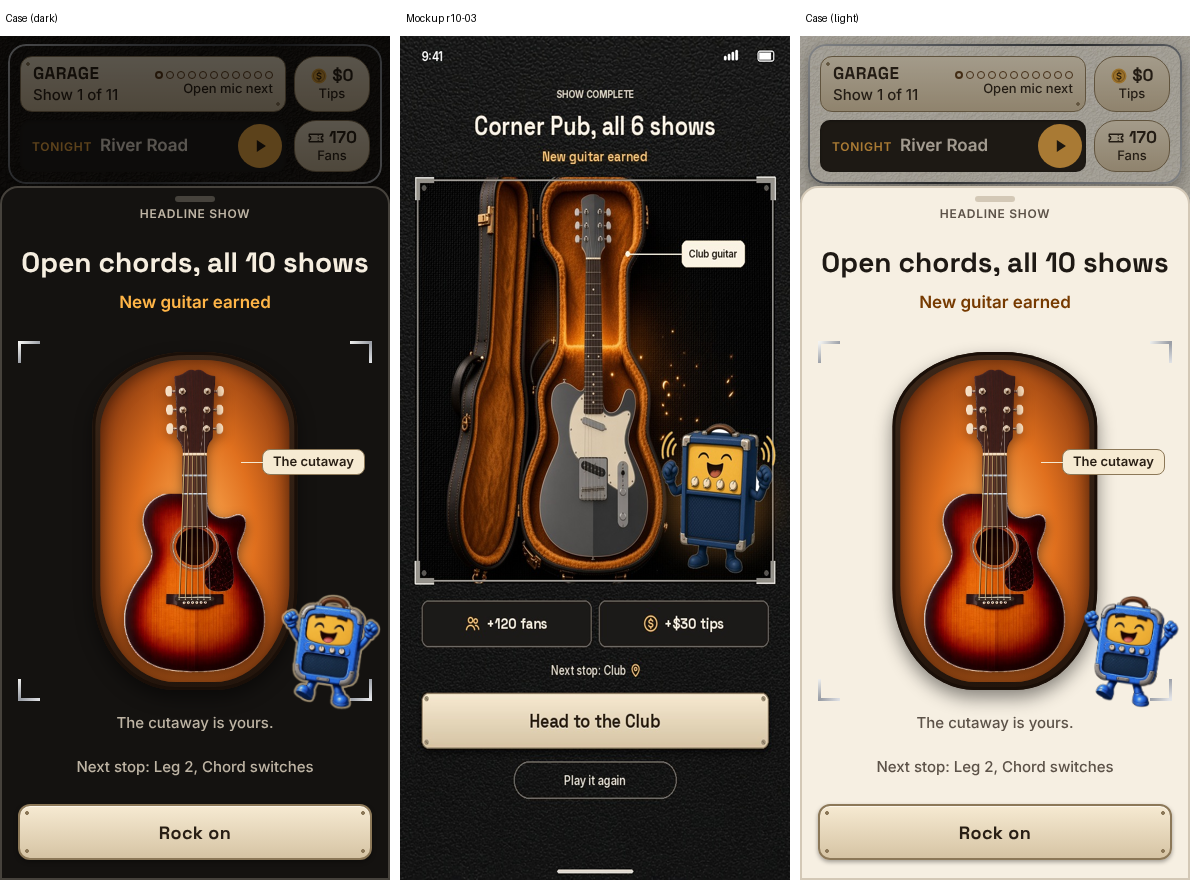
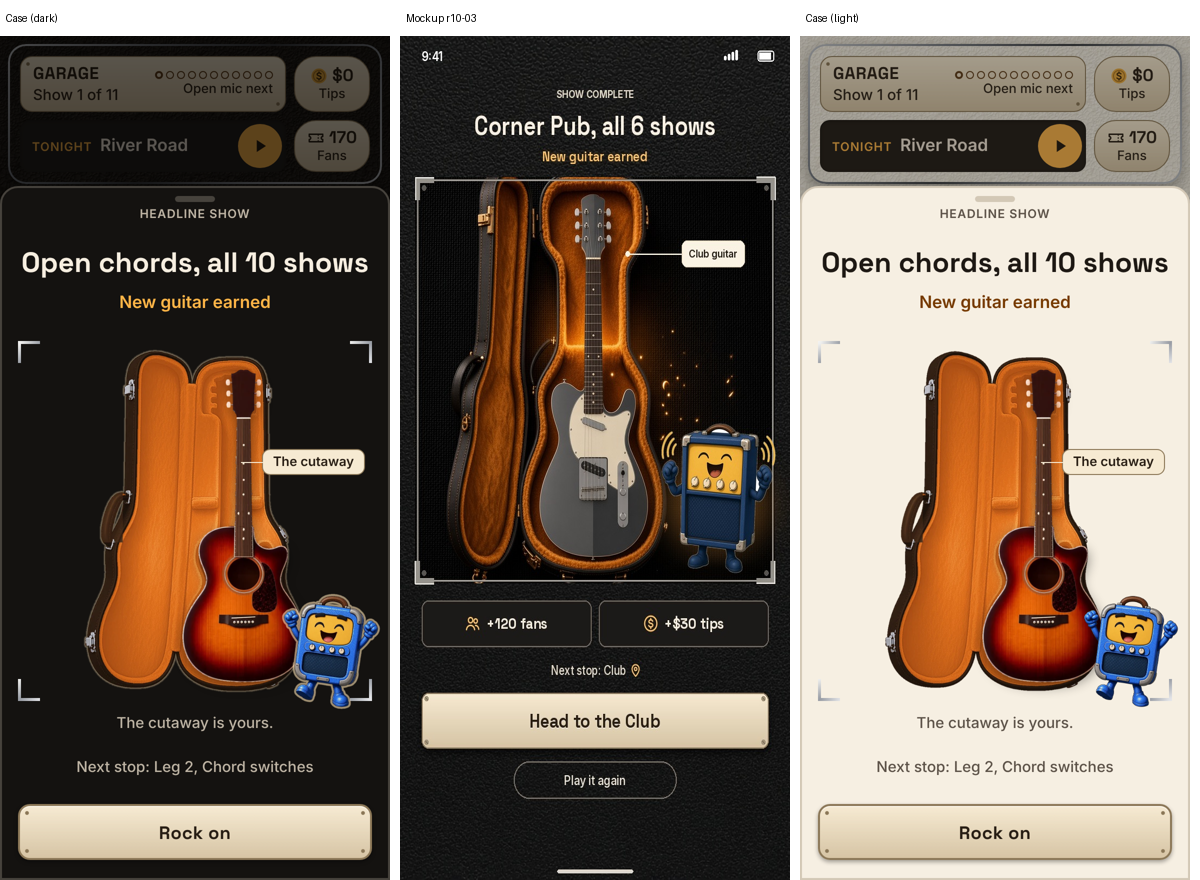
Road Ready 06: the new guitar sits in Grok's painted case
The case on the new-guitar sheet is now Grok's painting, dark and light
(art/show, cached by the service worker), in place of the CSS shell.
The guitar in it is the whole-guitar picture, so the headstock sits in
its pocket and the neck along its channel.

Claude-Session: https://claude.ai/code/session_01JnUP82d5QUKXobAa3cM5e5

Changed region(s): [[0.0617, 0.3989, 0.3083, 0.7977], [0.74, 0.3989, 0.9867, 0.8284]]

diff --git a/sw.js b/sw.js
@@ -8,7 +8,7 @@
 const CACHE = "tabs-v4.96.1";
 const ART = "tabs-art";          // album art for covers, kept across releases
 const VENDOR = "tabs-vendor";    // libraries loaded on first use (vendor/), kept across releases
-const SHELL = ["./", "index.html", "styles.css", "app.js", "library.js", "audio.js", "aihelp.js", "core.js", "core/chords.js", "core/game.js", "core/groove.js", "core/neck.js", "core/booth.js", "core/youtube.js", "core/playing.js", "core/recording.js", "core/sketch.js", "core/turf.js", "ui.js", "store.js", "sets.js", "settings.js", "editor.js", "coach.js", "tuner.js", "findai.js", "german.js", "aitools.js", "crop.js", "sketch.js", "heads.js", "dial.js", "fold.js", "strum.js", "share.js", "listen.js", "profile.js", "playmap.js", "road.js", "fretboard.js", "hud.js", "gig.js", "stage.js", "tour.js", "charts.js", "band.js", "friends.js", "duel.js", "merch.js", "support.js", "opening.js", "practice.js", "booth.js", "youtube.js", "drawer.js", "louie.js", "guitarist.js", "maker.js", "rock.js", "scene.js", "callout.js", "tuneup.js", "art/guitarist.js", "art/guitars/pics.js", "art/guitars/parlor-head.webp", "art/guitars/parlor-body.webp", "art/guitars/parlor-small.webp", "art/guitars/cutaway-head.webp", "art/guitars/cutaway-body.webp", "art/guitars/cutaway-small.webp", "art/guitars/cutaway-sunburst-body.webp", "art/guitars/cutaway-sunburst-head.webp", "art/guitars/cutaway-sunburst-small.webp", "art/surfaces/tolex-dark.webp", "art/surfaces/tolex-cream.webp", "art/guitars/solid-head.webp", "art/guitars/solid-body.webp", "art/guitars/solid-small.webp", "art/guitars/hollow-head.webp", "art/guitars/hollow-body.webp", "art/guitars/hollow-small.webp", "art/guitars/single-head.webp", "art/guitars/single-body.webp", "art/guitars/single-small.webp", "art/guitars/classical-head.webp", "art/guitars/classical-body.webp", "art/guitars/classical-small.webp", "art/guitars/headliner-head.webp", "art/guitars/headliner-body.webp", "art/guitars/headliner-small.webp", "art/louie/louie-peek-dark.webp", "art/louie/louie-peek-light.webp", "art/louie/v2/louie-idle-dark.webp", "art/louie/v2/louie-listen-dark.webp", "art/louie/v2/louie-idle-light.webp", "art/louie/v2/louie-listen-light.webp", "art/louie/v2/louie-cheer-dark.webp", "art/louie/v2/louie-cheer-light.webp", "art/louie/v2/louie-wave-dark.webp", "art/louie/v2/louie-wave-light.webp", "art/louie/v2/louie-point-dark.webp", "art/louie/v2/louie-point-light.webp", "art/louie/v2/louie-thumb-dark.webp", "art/louie/v2/louie-thumb-light.webp", "art/louie/v2/louie-horns-dark.webp", "art/louie/v2/louie-horns-light.webp", "art/louie/v2/louie-sleepy-dark.webp", "art/louie/v2/louie-sleepy-light.webp", "art/louie/v2/louie-nervous-dark.webp", "art/louie/v2/louie-nervous-light.webp", "art/louie/v2/louie-proud-dark.webp", "art/louie/v2/louie-proud-light.webp", "manifest.webmanifest", "icons/icon-192.png", "icons/apple-touch-icon.png", "icons/favicon-32.png"];
+const SHELL = ["./", "index.html", "styles.css", "app.js", "library.js", "audio.js", "aihelp.js", "core.js", "core/chords.js", "core/game.js", "core/groove.js", "core/neck.js", "core/booth.js", "core/youtube.js", "core/playing.js", "core/recording.js", "core/sketch.js", "core/turf.js", "ui.js", "store.js", "sets.js", "settings.js", "editor.js", "coach.js", "tuner.js", "findai.js", "german.js", "aitools.js", "crop.js", "sketch.js", "heads.js", "dial.js", "fold.js", "strum.js", "share.js", "listen.js", "profile.js", "playmap.js", "road.js", "fretboard.js", "hud.js", "gig.js", "stage.js", "tour.js", "charts.js", "band.js", "friends.js", "duel.js", "merch.js", "support.js", "opening.js", "practice.js", "booth.js", "youtube.js", "drawer.js", "louie.js", "guitarist.js", "maker.js", "rock.js", "scene.js", "callout.js", "tuneup.js", "art/guitarist.js", "art/guitars/pics.js", "art/guitars/parlor-head.webp", "art/guitars/parlor-body.webp", "art/guitars/parlor-small.webp", "art/guitars/cutaway-head.webp", "art/guitars/cutaway-body.webp", "art/guitars/cutaway-small.webp", "art/guitars/cutaway-sunburst-body.webp", "art/guitars/cutaway-sunburst-head.webp", "art/guitars/cutaway-sunburst-small.webp", "art/surfaces/tolex-dark.webp", "art/surfaces/tolex-cream.webp", "art/guitars/solid-head.webp", "art/guitars/solid-body.webp", "art/guitars/solid-small.webp", "art/guitars/hollow-head.webp", "art/guitars/hollow-body.webp", "art/guitars/hollow-small.webp", "art/guitars/single-head.webp", "art/guitars/single-body.webp", "art/guitars/single-small.webp", "art/guitars/classical-head.webp", "art/guitars/classical-body.webp", "art/guitars/classical-small.webp", "art/guitars/headliner-head.webp", "art/guitars/headliner-body.webp", "art/guitars/headliner-small.webp", "art/louie/louie-peek-dark.webp", "art/show/case-open-dark.webp", "art/show/case-open-light.webp", "art/louie/louie-peek-light.webp", "art/louie/v2/louie-idle-dark.webp", "art/louie/v2/louie-listen-dark.webp", "art/louie/v2/louie-idle-light.webp", "art/louie/v2/louie-listen-light.webp", "art/louie/v2/louie-cheer-dark.webp", "art/louie/v2/louie-cheer-light.webp", "art/louie/v2/louie-wave-dark.webp", "art/louie/v2/louie-wave-light.webp", "art/louie/v2/louie-point-dark.webp", "art/louie/v2/louie-point-light.webp", "art/louie/v2/louie-thumb-dark.webp", "art/louie/v2/louie-thumb-light.webp", "art/louie/v2/louie-horns-dark.webp", "art/louie/v2/louie-horns-light.webp", "art/louie/v2/louie-sleepy-dark.webp", "art/louie/v2/louie-sleepy-light.webp", "art/louie/v2/louie-nervous-dark.webp", "art/louie/v2/louie-nervous-light.webp", "art/louie/v2/louie-proud-dark.webp", "art/louie/v2/louie-proud-light.webp", "manifest.webmanifest", "icons/icon-192.png", "icons/apple-touch-icon.png", "icons/favicon-32.png"];
 
 self.addEventListener("install", e => {
   // Fetch every file fresh: cache: "reload" skips the phone's HTTP cache, and

diff --git a/styles.css b/styles.css
@@ -4956,7 +4956,7 @@ body.tabbed:not(.is-home) .app:has(> .dock) { padding-bottom: calc(var(--tabs) +
 /* the showcase: the guitar, its cream label, the cheering Louie at the bottom right */
 .sc-show { position: relative; flex: none; width: 100%; max-width: 360px; height: min(46vh, 380px); margin: 4px auto; }
 .sc-guitar { position: absolute; left: 50%; top: 4%; bottom: 4%; transform: translateX(-50%); width: 62%; display: flex; justify-content: center; }
-.sc-guitar .rd-gsvg { height: 100%; width: auto; max-width: 100%; }
+.sc-guitar :is(.rd-gsvg, img) { height: 100%; width: auto; max-width: 100%; object-fit: contain; }
 .sc-show.glow .sc-guitar { filter: drop-shadow(0 0 2px var(--rr-glow-core)) drop-shadow(0 0 10px color-mix(in srgb, var(--rr-glow) 70%, transparent)) drop-shadow(0 0 24px color-mix(in srgb, var(--rr-glow) 40%, transparent)); animation: sc-pulse 1.2s ease-out 1; }
 @keyframes sc-pulse { 40% { filter: drop-shadow(0 0 3px var(--rr-glow-core)) drop-shadow(0 0 16px var(--rr-glow)) drop-shadow(0 0 40px color-mix(in srgb, var(--rr-glow) 60%, transparent)); } }
 .sc-label { position: absolute; right: 2%; top: 30%; padding: 4px 10px; border-radius: 8px; background: var(--rr-plate-top); color: var(--rr-plate-text); border: 1px solid var(--rr-plate-edge); font: 600 var(--type-footnote, 13px) / 1.2 "Inter", var(--sans); max-width: 34%; }
@@ -4993,9 +4993,11 @@ body.tabbed:not(.is-home) .app:has(> .dock) { padding-bottom: calc(var(--tabs) +
 .sc-corner { border-image: linear-gradient(135deg, #f4f4f2, #9a9ea6 50%, #e6e7ea) 1; }
 .sc-corner.tl { left: 0; top: 0; border-right: 0; border-bottom: 0; } .sc-corner.tr { right: 0; top: 0; border-left: 0; border-bottom: 0; }
 .sc-corner.bl { left: 0; bottom: 0; border-right: 0; border-top: 0; } .sc-corner.br { right: 0; bottom: 0; border-left: 0; border-top: 0; }
-.sc-shell { position: absolute; left: 50%; top: 3%; bottom: 3%; width: 58%; transform: translateX(-50%); border-radius: 46% 46% 40% 40% / 22% 22% 30% 30%; background: linear-gradient(180deg, #3a2618, #24160d); box-shadow: inset 0 0 0 3px #1a0f08, 0 8px 18px rgba(0, 0, 0, .45); }
-.sc-plush { position: absolute; inset: 8px; border-radius: inherit; background: radial-gradient(ellipse at 50% 55%, #ffb25a 0, #e0701e 45%, #8a3a10 85%); box-shadow: inset 0 0 18px rgba(0, 0, 0, .55); }
-.sc-show.case .sc-guitar { z-index: 1; top: 7%; bottom: 7%; width: 52%; filter: drop-shadow(0 4px 6px rgba(0, 0, 0, .45)); }
+/* the case is Grok's painting (art/show, 720 by 900, lid on the left, the cavity on the right); the guitar sits in the cavity */
+:root[data-look="neon"] { --show-case: url("art/show/case-open-dark.webp"); }
+:root[data-look="festival"] { --show-case: url("art/show/case-open-light.webp"); }
+.sc-case { position: absolute; left: 50%; top: 2%; bottom: 2%; aspect-ratio: 720 / 900; transform: translateX(-50%); background: var(--show-case) center / contain no-repeat; }
+.sc-show.case .sc-case .sc-guitar { position: absolute; left: 67.5%; top: 6%; bottom: 3%; width: 48%; transform: translateX(-50%); filter: drop-shadow(0 4px 6px rgba(0, 0, 0, .45)); }
 .sc-show.case .sc-louie { z-index: 3; }
 .sc-show.case .sc-label { z-index: 3; }
 :root:is([data-look="neon"], [data-look="festival"]) .rd-gt.rr-case { background: var(--rr-base); }

diff --git a/road.js b/road.js
@@ -29,7 +29,7 @@ import { makerSheet } from "./maker.js";
 import { applyTheme, chordNames, data, go, homeHooks, nextSongs, openSearch, playGig, route, showCallout } from "./app.js";
 import { aiKey } from "./aihelp.js";
 import { louie } from "./louie.js";
-import { guitarSVG, inlaySVG, neckHTML, rrStopArt } from "./fretboard.js";
+import { guitarSVG, guitarPic, inlaySVG, neckHTML, rrStopArt } from "./fretboard.js";
 import { statBar, bindStatBar, settleStats, statNotices } from "./hud.js";
 
 const DAY = 86400000;
@@ -403,7 +403,7 @@ function guitarEarned(road) {
   if (!gn) return;
   data.guitars = { seen: gn.done }; Tabs.save(data);
   const lg = road.legs.find(l => l.id === gn.next), was = road.legs.find(l => l.id === gn.leg);
-  /* Road Ready 06 (spec 5.8, r10-03): the new guitar in an open hard case with glowing plush, chrome L corners, the
+  /* Road Ready 06 (spec 5.8, r10-03): the new guitar in Grok's painted open case (art/show), chrome L corners, the
      cheering Louie beside it; the leg you finished as the title and the next leg as the next stop */
   if (rrLook()) layer.innerHTML = `<div class="scrim" id="gt-scrim"></div><div class="panel de-sheet rd-hl rd-gt rr-case" role="dialog" aria-label="New guitar earned"><div class="grab"></div>
     <div class="pbody">
@@ -412,8 +412,7 @@ function guitarEarned(road) {
       <p class="sc-new">New guitar earned</p>
       <div class="sc-show case" aria-hidden="true">
         <i class="sc-corner tl"></i><i class="sc-corner tr"></i><i class="sc-corner bl"></i><i class="sc-corner br"></i>
-        <span class="sc-shell"><span class="sc-plush"></span></span>
-        <div class="sc-guitar">${guitarSVG(gn.next)}</div>
+        <span class="sc-case"><span class="sc-guitar">${guitarPic(gn.guitar.body) ? `<img src="${guitarPic(gn.guitar.body)}" alt="">` : guitarSVG(gn.next)}</span></span>
         <span class="sc-label">${esc(gn.guitar.name)}</span>
         <span class="sc-louie">${louie("cheer", { size: 96 })}</span>
       </div>

diff --git a/README.md b/README.md
@@ -59,7 +59,7 @@ Live at `https://grahamdeno.github.io/tabs/` (GitHub Pages from `main`). Add it 
 - **Even bands** (4.56.0): a row of chords with no words (an intro, a solo) is as tall as a sung line, paused and playing, so its band is the same height: the chords on top and an empty line below. A chart's header note ("Capo 2", "Strum: D-DU-UDU") is read, not played: the band and Chord Catch start on the first chord line.
 - **Leaving the app pauses** (4.55.0): swipe to another app and the song pauses, back where it was just before the swipe (the page only learns the app went away a moment after the swipe begins, so it steps back 0.7 s). A show pauses the same way.
 - Pause (4.52.0) hands the song page back as it always is: title, chips, Tools and Play in thumb reach, Play reading Resume, and a quiet band on the line you stopped on. Louie's line sits above Play when he has one. Play picks it up where you left it; the page's Back, or Tools for anything but its switches, ends the show. Unscored play pauses by folding Play into its corner. Paused, tap a chord in the song or in the chord tiles (a small shape under each name, 4.54.0) and its shape shows in a card just above Play (4.50.0).
-- Show complete in Dark and Light (Road Ready 06): SHOW COMPLETE over the song's name, the guitar of the leg you're on glowing amber with drifting sparks and its name on a cream label, Louie cheering with one hop, two reward tiles ("+114 fans", "+$47 tips", read as one sentence), the next venue, Continue and Play it again (the Encore), then the crowd, stars, the song you played and the list below. No backdrop in these two looks; Green Room and Headliner keep the backdrop and Change. When a leg is headlined, the Road shows the new guitar in an open case with glowing plush and chrome corners. Reduce Motion keeps it all still; a light tap on show complete.
+- Show complete in Dark and Light (Road Ready 06): SHOW COMPLETE over the song's name, the guitar of the leg you're on glowing amber with drifting sparks and its name on a cream label, Louie cheering with one hop, two reward tiles ("+114 fans", "+$47 tips", read as one sentence), the next venue, Continue and Play it again (the Encore), then the crowd, stars, the song you played and the list below. No backdrop in these two looks; Green Room and Headliner keep the backdrop and Change. When a leg is headlined, the Road shows the new guitar in a painted open case (Grok's art) with chrome corners. Reduce Motion keeps it all still; a light tap on show complete.
 - Show complete: bonus fans, tips, the crowd, the song's stars, the changes played and the best run, "no pausing" when it was the whole song, stretch pay (the bonus fans times 1.25 for full speed, 1.25 for a chord you're still learning and 1.25 for your first time through, adding up to 1.75x at most), the song you played (every chord by section, filled for the changes played), and Encore (double bonus fans). Bonus fans are one per change played, times the stretch, plus 10 for the whole song; tips are 10, plus 3 for each fan on their feet and 1 for every four changes.
 - Tools (4.32.0) is one sheet from the bottom with three tabs at its foot, in thumb reach; the last tab is remembered. Play: song length or speed (− and + step it, the value opens the dial), Metronome as a switch (4.50.0 retired Now and Next, the panel of chord cards while you play, and its switch), The band (4.43.0: on or off, drums or click and a volume up to 150%, through one limiter; while the song plays the same sheet opens from the band button above Play, and the song keeps going), Lines in a gig (4, 5, 6 or All), Text size. Practice: Practice mode, Practice a section, Make it easier, Capo, Tuner, Play together. Song: Edit, Add to a set, Share, German, Spark tone, Add the words. Rows, not tiles: a switch toggles in place, a row with an arrow opens its sheet. From a show, the Song tab and Practice mode are left out.
 - The band: a metronome (click or a drum beat that fits the song, written per section by the AI when there's a key). Beat from Your band plays the drums in gigs once he's joined. The synthesized bass line was taken out in 4.42.0 (it never sounded like the song).

diff --git a/docs/ROAD-READY-PLAN.md b/docs/ROAD-READY-PLAN.md
@@ -202,7 +202,7 @@ Found while building step 06.
 102. **A guitar is never earned on Show complete.** The headline show is a skill check in Rehearse, not a song, so `showComplete()` always shows the glow version, and the case is the new-guitar sheet on the Road (`guitarEarned()`), as the prompt splits them. The case sheet has no reward tiles: it doesn't know what the headline check paid. Its title is the leg ("Open chords, all 10 shows").
 103. **The primary button says Continue, not "Head to the Club".** Continue keeps its action (it stays on the song page), so naming the next venue on it would say something it doesn't do. The next venue is the "Next stop" line above it. Play it again is the Encore, with "2x bonus fans" kept in its words.
 104. **The guitar is the one of the leg you're on** (`guitarSVG()` of the leg with the current stop), named on the cream label.
-105. **The case is CSS** (a dark brown shell with radial orange plush), since `art/case/case-open.webp` doesn't exist. It is a stand-in; a painted case from Grok would match r10-03 better.
+105. **The case is Grok's painting** (`art/show/case-open-dark.webp` and `-light.webp`, from `rr-show-case-art`; the PNGs and previews stay on that branch). The guitar in it is the whole-guitar picture (`guitarPic()`), not `guitarSVG()`, whose short neck left the headstock mid-case. The cavity is shaped for a single-cutaway electric, so an acoustic (Leg 2's cutaway) is wider than it.
 106. **The headline Louie is `louie("cheer")`**, which picks the painted cheer art for the look, as everywhere else.
 107. **No tolex panel behind the tiles and buttons**, which r10-04 has. The screen scrolls instead, with the crowd, stars and the list below the buttons.
 108. **`headlinerEarned()` is unchanged**: its buttons already take step 01's plate and capsule styles.
